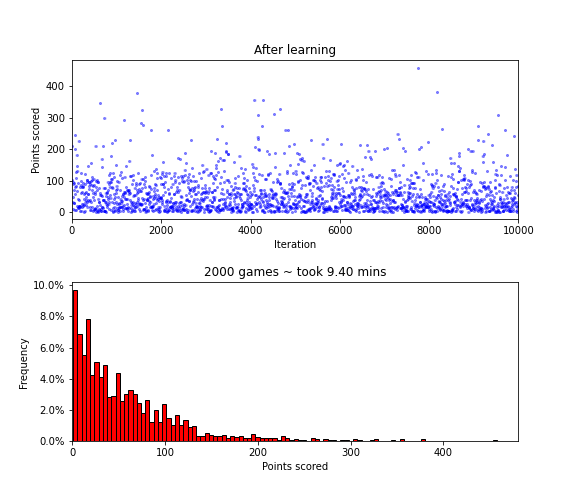
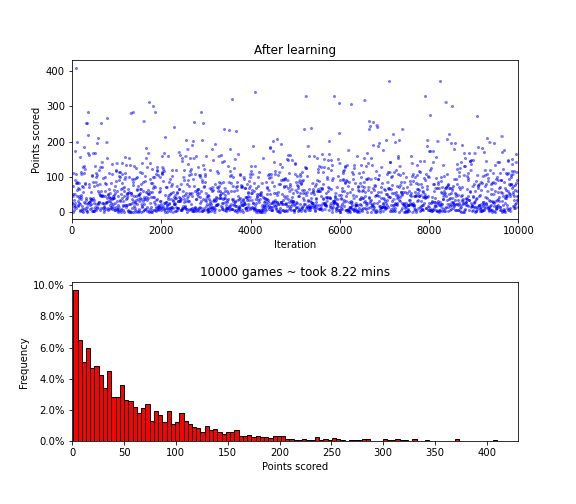
commit

diff --git a/multi-flappy-bird/MarcoCarlo.py b/multi-flappy-bird/MarcoCarlo.py
@@ -8,10 +8,12 @@ import flappy_bird_gym
 import pygame
 import numpy as np
 import sys
+import os.path
 from argparse import ArgumentParser
 from datetime import datetime
 import matplotlib.pyplot as plt
 from matplotlib.ticker import PercentFormatter
+import scipy.stats as st
 
 nr_of_birds = 5
 iterations = int(10000/nr_of_birds)
@@ -20,7 +22,10 @@ def main(env=0, show_prints=False, show_gui=False, fps=100):
     env = flappy_bird_gym.make("FlappyBird-v0")
     bar_length = 30
 
-    test_result = 1
+    test_result = 0
+    results = 0
+
+    filename = "marco_carlo_results.npy"
 
     if test_result:
         start2 = datetime.now()
@@ -37,10 +42,22 @@ def main(env=0, show_prints=False, show_gui=False, fps=100):
                 sys.stdout.flush()
 
         end2 = datetime.now()
+        np.save(filename, results)
         print("\nExperiment took %.2f mins\n"%((end2-start2).seconds/60))
         print("Fraction of games scored zero points: %.2f%%" %(len(results[results==0])/len(results)*100) )
 
+    elif os.path.isfile(filename):
+        with open(filename, 'rb') as f:
+            results = np.load(f)
+        start2 = datetime.now()
+        end2 = datetime.now()
 
+    print("average:", np.average(results))
+    print("std dev:", np.std(results))
+    print("variance:", np.std(results)**2)
+    print("2st moment:", st.moment(results, moment=2))
+    print("3st moment:", st.moment(results, moment=3))
+    print("4st moment:", st.moment(results, moment=4))
 
     if test_result:
         fig, axs = plt.subplots(2,1, figsize=(8,7))
@@ -57,22 +74,9 @@ def main(env=0, show_prints=False, show_gui=False, fps=100):
         freq, bins, patches = axs[ax].hist(results, color='red', ec="k", bins=100, weights=np.ones(len(results)) / len(results))
         axs[ax].set_ylabel("Frequency")
         axs[ax].set_xlabel("Points scored")
-        axs[ax].set_title("%d games ~ took %.2f mins"%(iterations,(end2-start2).seconds/60))
+        axs[ax].set_title("%d games ~ took %.2f mins"%(iterations*nr_of_birds,(end2-start2).seconds/60))
         axs[ax].set_xlim(-0.25)
         axs[ax].yaxis.set_major_formatter(PercentFormatter(1))
-
-        # For histogram bin labels
-        # bin_centers = np.diff(bins)*0.5 + bins[:-1]
-        # for n, (fr, x, patch) in enumerate(zip(freq, bin_centers, patches)):
-        #     height = freq[n]
-        #     if height > 0:
-        #             plt.annotate("%.1f%%"%(height*100),
-        #                     size = 8,
-        #                     xy = (x, height),             # top left corner of the histogram bar
-        #                     xytext = (0,0.2),             # offsetting label position above its bar
-        #                     textcoords = "offset points", # Offset (in points) from the *xy* value
-        #                     ha = 'center', va = 'bottom'
-        #                     )
 
         plt.savefig("Marco_Carlo_results.png")
 
